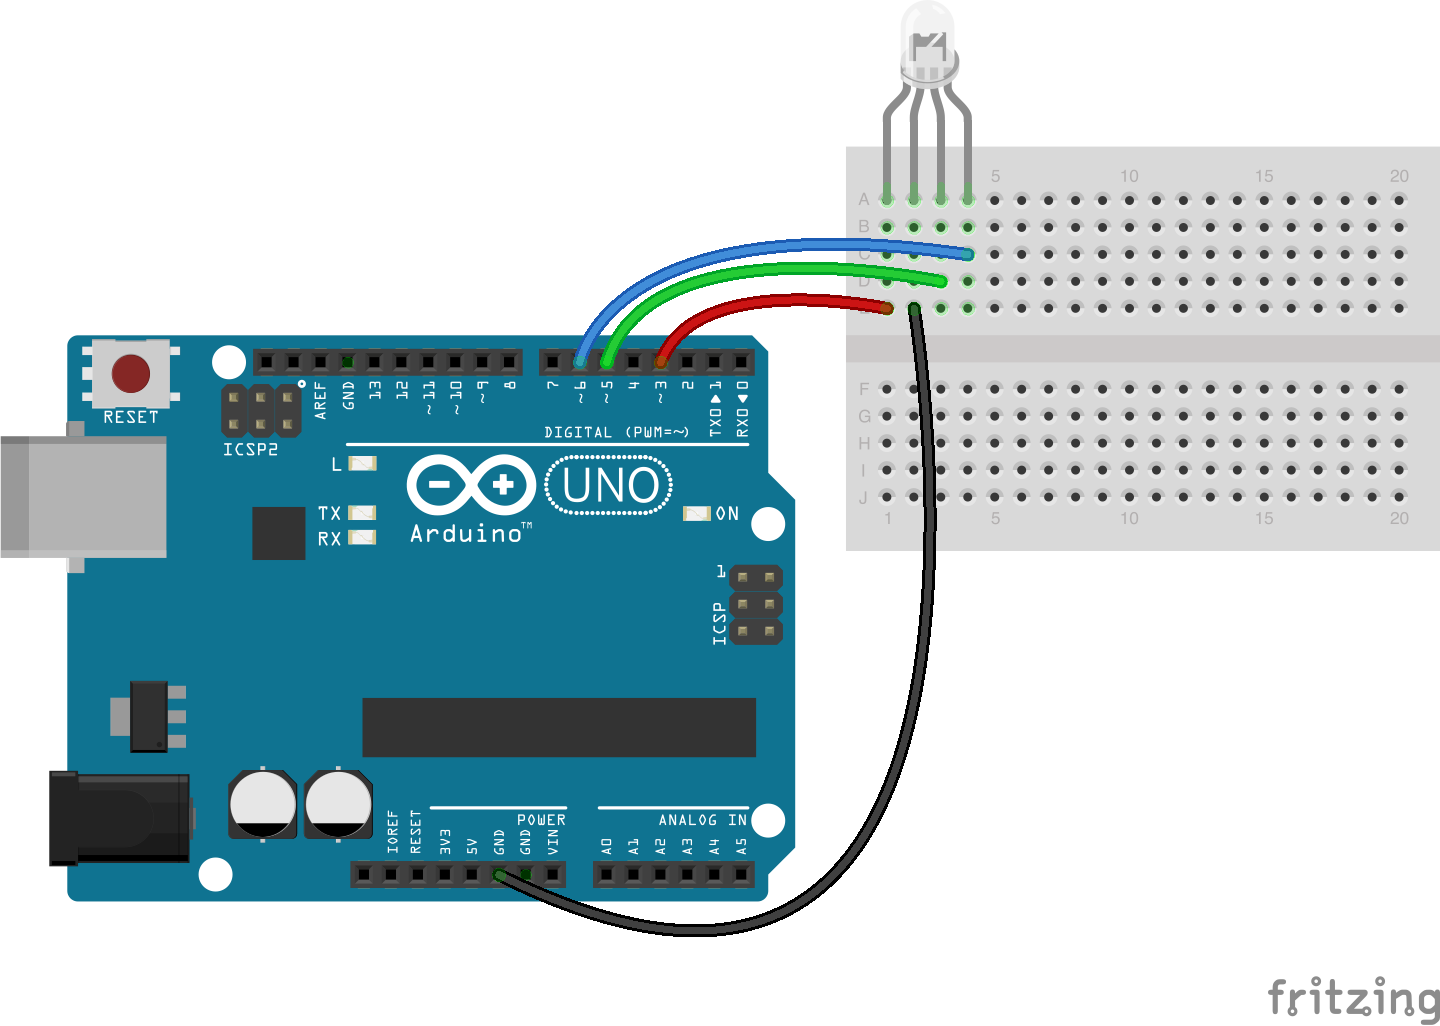
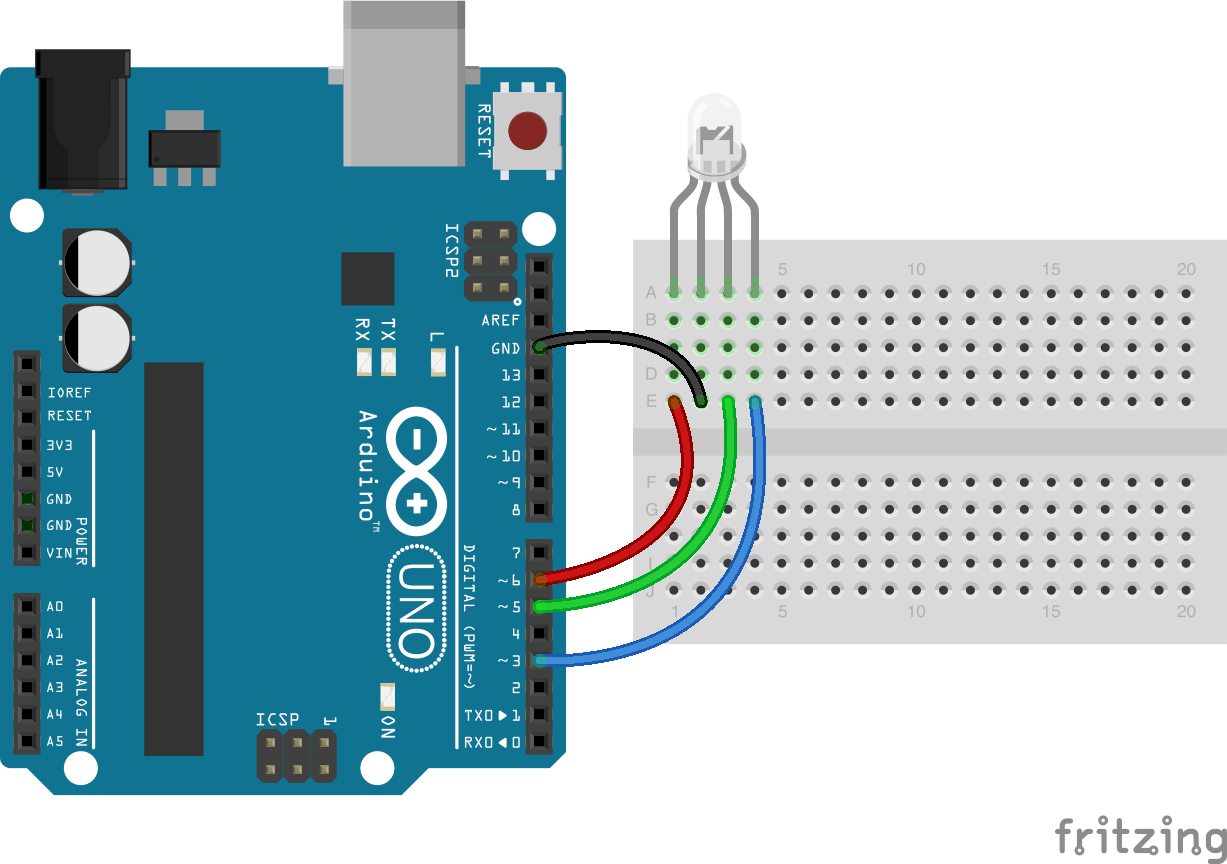
simpler led breadboards, add back board-with-port

diff --git a/eg/led-rainbow.js b/eg/led-rainbow.js
@@ -2,7 +2,7 @@ var five = require("../lib/johnny-five.js");
 var board = new five.Board();
 
 board.on("ready", function() {
-  var rgb = new five.Led.RGB([3, 5, 6]);
+  var rgb = new five.Led.RGB([6, 5, 3]);
   var rainbow = ["FF000", "FF7F00", "00FF00", "FFFF00", "0000FF", "4B0082", "8F00FF"];
   var index = 0;
 

diff --git a/eg/led-rgb.js b/eg/led-rgb.js
@@ -6,9 +6,9 @@ five.Board().on("ready", function() {
   // Initialize the RGB LED
   var led = new five.Led.RGB({
     pins: {
-      red: 3,
+      red: 6,
       green: 5,
-      blue: 6
+      blue: 3
     }
   });
 

diff --git a/docs/board-with-port.md b/docs/board-with-port.md
@@ -1,0 +1,49 @@
+<!--remove-start-->
+# Board - Specify port
+
+Run with:
+```bash
+node eg/board-with-port.js
+```
+<!--remove-end-->
+
+```javascript
+var five = require("johnny-five");
+
+// Johnny-Five will try its hardest to detect the port for you,
+// however you may also explicitly specify the port by passing
+// it as an optional property to the Board constructor:
+var board = new five.Board({
+  port: "/dev/cu.usbmodem1411"
+});
+
+// The board's pins will not be accessible until
+// the board has reported that it is ready
+board.on("ready", function() {
+  this.pinMode(13, this.MODES.OUTPUT);
+
+  this.loop(500, function() {
+    // Whatever the last value was, write the opposite
+    this.digitalWrite(13, this.pins[13].value ? 0 : 1);
+  });
+});
+
+```
+
+
+## Breadboard/Illustration
+
+
+![docs/breadboard/board-with-port.png](breadboard/board-with-port.png)
+[docs/breadboard/board-with-port.fzz](breadboard/board-with-port.fzz)
+
+
+
+
+<!--remove-start-->
+## License
+Copyright (c) 2012, 2013, 2014 Rick Waldron <waldron.rick@gmail.com>
+Licensed under the MIT license.
+Copyright (c) 2014, 2015 The Johnny-Five Contributors
+Licensed under the MIT license.
+<!--remove-end-->

diff --git a/README.md b/README.md
@@ -163,7 +163,8 @@ board.on("ready", function() {
 
 ### Board
 - [Basic Board initialization](https://github.com/rwaldron/johnny-five/blob/master/docs/board.md)
-- [Multiple Boards in one program](https://github.com/rwaldron/johnny-five/blob/master/docs/board-multi.md)
+- [Board - Specify port](https://github.com/rwaldron/johnny-five/blob/master/docs/board-with-port.md)
+- [Board - Multiple in one program](https://github.com/rwaldron/johnny-five/blob/master/docs/board-multi.md)
 - [REPL](https://github.com/rwaldron/johnny-five/blob/master/docs/repl.md)
 - [Pin Component](https://github.com/rwaldron/johnny-five/blob/master/docs/pin.md)
 

diff --git a/docs/led-rainbow.md b/docs/led-rainbow.md
@@ -12,7 +12,7 @@ var five = require("johnny-five");
 var board = new five.Board();
 
 board.on("ready", function() {
-  var rgb = new five.Led.RGB([3, 5, 6]);
+  var rgb = new five.Led.RGB([6, 5, 3]);
   var rainbow = ["FF000", "FF7F00", "00FF00", "FFFF00", "0000FF", "4B0082", "8F00FF"];
   var index = 0;
 

diff --git a/docs/led-rgb.md b/docs/led-rgb.md
@@ -16,9 +16,9 @@ five.Board().on("ready", function() {
   // Initialize the RGB LED
   var led = new five.Led.RGB({
     pins: {
-      red: 3,
+      red: 6,
       green: 5,
-      blue: 6
+      blue: 3
     }
   });
 

diff --git a/docs/board-multi.md b/docs/board-multi.md
@@ -1,5 +1,5 @@
 <!--remove-start-->
-# Multiple Boards in one program
+# Board - Multiple in one program
 
 Run with:
 ```bash
